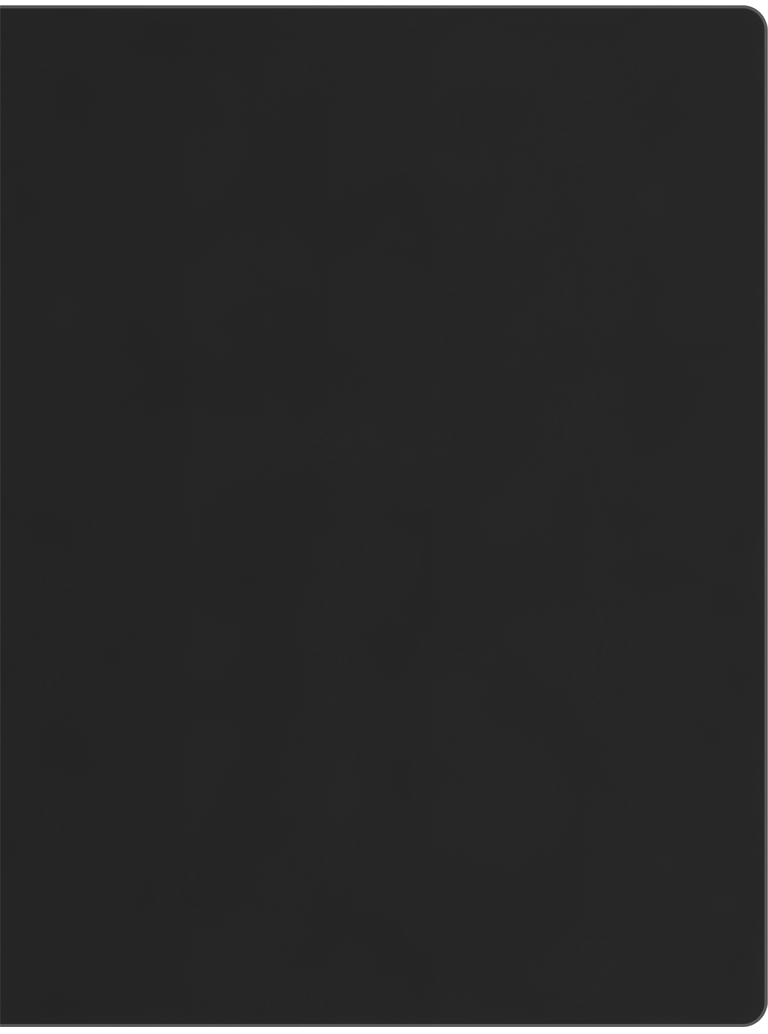
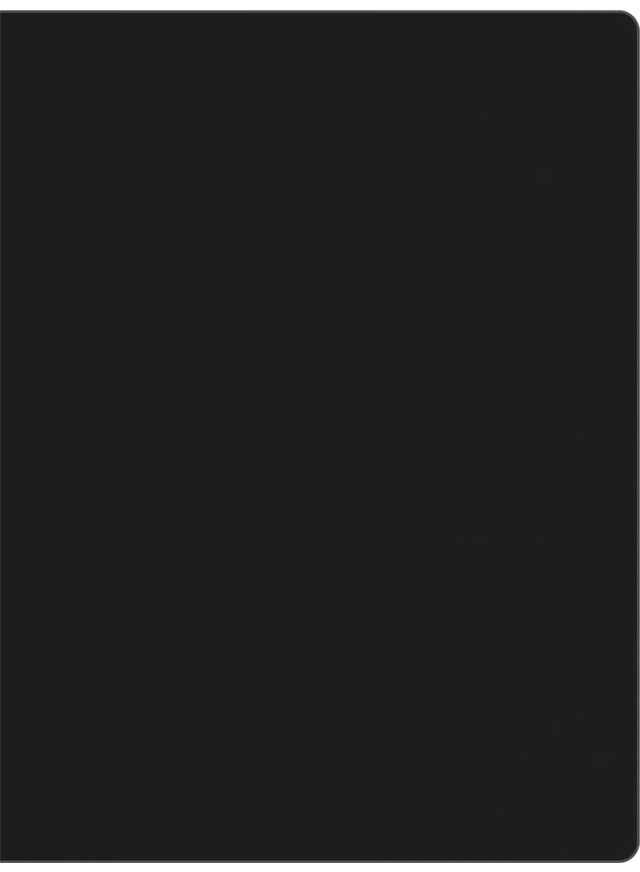
Fixed book cover not align perfectly

Changed region(s): [[0.0, 0.9599, 1.0, 1.0], [0.0, 0.0, 1.0, 0.031]]

diff --git a/Pepper/PPPepperViewController.m b/Pepper/PPPepperViewController.m
@@ -19,7 +19,7 @@
 #define ENABLE_BORDERLESS_GRAPHIC     NO          //combine with HIDE_FIRST_PAGE to create a 'stack of paper' application
 #define ENABLE_HIGH_SPEED_SCROLLING   YES         //in 3D mode only
 #define ENABLE_BOOK_SCALE             YES         //other book not in center will be smaller
-#define ENABLE_BOOK_SHADOW            NO          //dynamic shadow below books
+#define ENABLE_BOOK_SHADOW            YES         //dynamic shadow below books
 #define ENABLE_BOOK_ROTATE            NO          //other book not in center will be slightly rotated (carousel effect)
 #define ENABLE_ONE_SIDE_ZOOM          NO          //zoom into one side, instead of side-by-side like Paper
 #define ENABLE_ONE_SIDE_MIDDLE_ZOOM   NO          //zoom into one side, anchor at middle of the page
@@ -102,7 +102,7 @@ static UIImage *pageBackgroundImage = nil;
 
 //Book scrollview
 @property (nonatomic, assign) int currentBookIndex;
-@property (nonatomic, strong) UIView *theBookCover;
+@property (nonatomic, strong) PPPageViewContentWrapper *theBookCover;
 @property (nonatomic, strong) UIScrollView *bookScrollView;
 @property (nonatomic, strong) NSMutableArray *reuseBookViewArray;
 @property (nonatomic, strong) NSMutableArray *visibleBookViewArray;
@@ -1191,16 +1191,16 @@ static int midYPortrait = 0;
 //
 - (int)getFirstVisiblePepperPageIndex {
   
-  int firstPageIndex = [self getNumberOfPagesForBookIndex:self.currentBookIndex];
+  int pageCount = [self getNumberOfPagesForBookIndex:self.currentBookIndex];
+  int firstPageIndex = pageCount;
   
-  for (UIView *subview in self.visiblePepperWrapperArray)
+  for (PPPageViewContentWrapper *subview in self.visiblePepperWrapperArray)
     if (subview.tag < firstPageIndex
-        && subview.tag%2 == 0
         && !subview.hidden
-        && [subview isKindOfClass:[PPPageViewContentWrapper class]])
+        && subview.tag%2 == 0)
       firstPageIndex = subview.tag;
   
-  if (firstPageIndex >= [self getNumberOfPagesForBookIndex:self.currentBookIndex])
+  if (firstPageIndex >= pageCount)
     firstPageIndex = self.hideFirstPage ? 1 : 0;
   
   return firstPageIndex;
@@ -1540,7 +1540,7 @@ static int midYPortrait = 0;
   //Clone the book cover and add to backside of first page
   if (!self.hideFirstPage)
   {
-    [self addBookCoverToFirstPage:YES];
+    [self addBookCoverToFirstPageThenRemove:YES];
   }
   //Hide the book cover immediately
   else
@@ -2371,7 +2371,7 @@ static int midYPortrait = 0;
   [self addBookToScrollView:self.currentBookIndex];
 
   //Replace 1st page by book cover, need to redo this due to pepper page reuse
-  [self addBookCoverToFirstPage:NO];
+  [self addBookCoverToFirstPageThenRemove:NO];
   
   //Should be already visible, just for sure
   self.bookScrollView.alpha = 1;
@@ -2460,32 +2460,27 @@ static int midYPortrait = 0;
   }
 }
 
-- (UIView*)getCurrentBookCover
-{ 
-  for (UIView *subview in self.visibleBookViewArray)
-    if (subview.tag == self.currentBookIndex)
-      return subview;
-  return nil;
-}
-
-- (void)addBookCoverToFirstPage:(BOOL)animated
+- (void)addBookCoverToFirstPageThenRemove:(BOOL)animated
 {
   if (self.theBookCover != nil)
     return;
-  self.theBookCover = [self getCurrentBookCover];
+  
+  self.theBookCover = [self getBookViewAtIndex:self.currentBookIndex];
   if (self.theBookCover == nil)
     return;
   
   //Find the first visible page view
+  //This is in case user open at non-zero page
   int firstPageIndex = [self getFirstVisiblePepperPageIndex];
-  UIView *firstPageView = [self getPepperPageAtIndex:firstPageIndex];
+  PPPageViewContentWrapper *firstPageView = [self getPepperPageAtIndex:firstPageIndex];
   if (firstPageView == nil)
     return;
 
   firstPageView.hidden = NO;
   [firstPageView addSubview:self.theBookCover];
   [firstPageView.superview bringSubviewToFront:firstPageView];
-  self.theBookCover.layer.transform = CATransform3DMakeScale(MAX_BOOK_SCALE, MAX_BOOK_SCALE, MAX_BOOK_SCALE);
+  firstPageView.shadowOpacity = 0;
+  self.theBookCover.layer.transform = CATransform3DIdentity;
   self.theBookCover.frame = firstPageView.bounds;
   self.theBookCover.hidden = NO;
   self.theBookCover.alpha = 1;
@@ -2493,9 +2488,9 @@ static int midYPortrait = 0;
   if (!animated)
     return;
     
-  //Remove layer later (not perfect but good enough for fast animation)
+  //Remove layer later (not the best implementation, but looks almost perfect even in slo-mo)
   float animationDuration = self.animationSlowmoFactor*OPEN_BOOK_DURATION;
-  float removeCoverDuration = (90.0-THRESHOLD_HALF_ANGLE)/(180.0-THRESHOLD_HALF_ANGLE) * animationDuration;    //this is a wrong fomula, but I have no idea why it works
+  float removeCoverDuration = 90.0/(180.0-THRESHOLD_HALF_ANGLE) * animationDuration;
   
   dispatch_after(dispatch_time(DISPATCH_TIME_NOW, removeCoverDuration * NSEC_PER_SEC), dispatch_get_current_queue(), ^{
     [self hideBookCoverFromFirstPage];
@@ -2527,7 +2522,7 @@ static int midYPortrait = 0;
   self.theBookCover.frame = [self getFrameForBookIndex:self.theBookCover.tag];
   self.theBookCover.layer.transform = CATransform3DMakeScale(MAX_BOOK_SCALE, MAX_BOOK_SCALE, MAX_BOOK_SCALE);
   
-  //De-reference, dealloc
+  //De-reference
   self.theBookCover = nil;
 }
 
